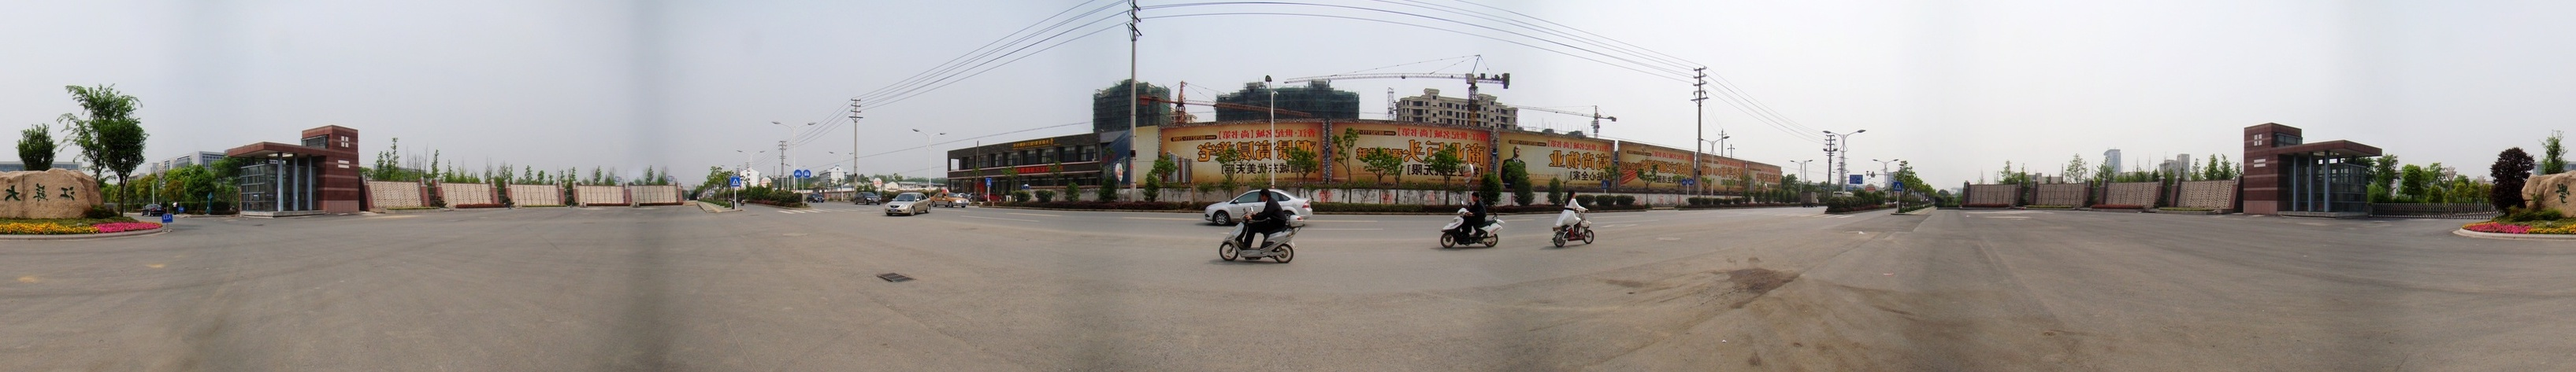
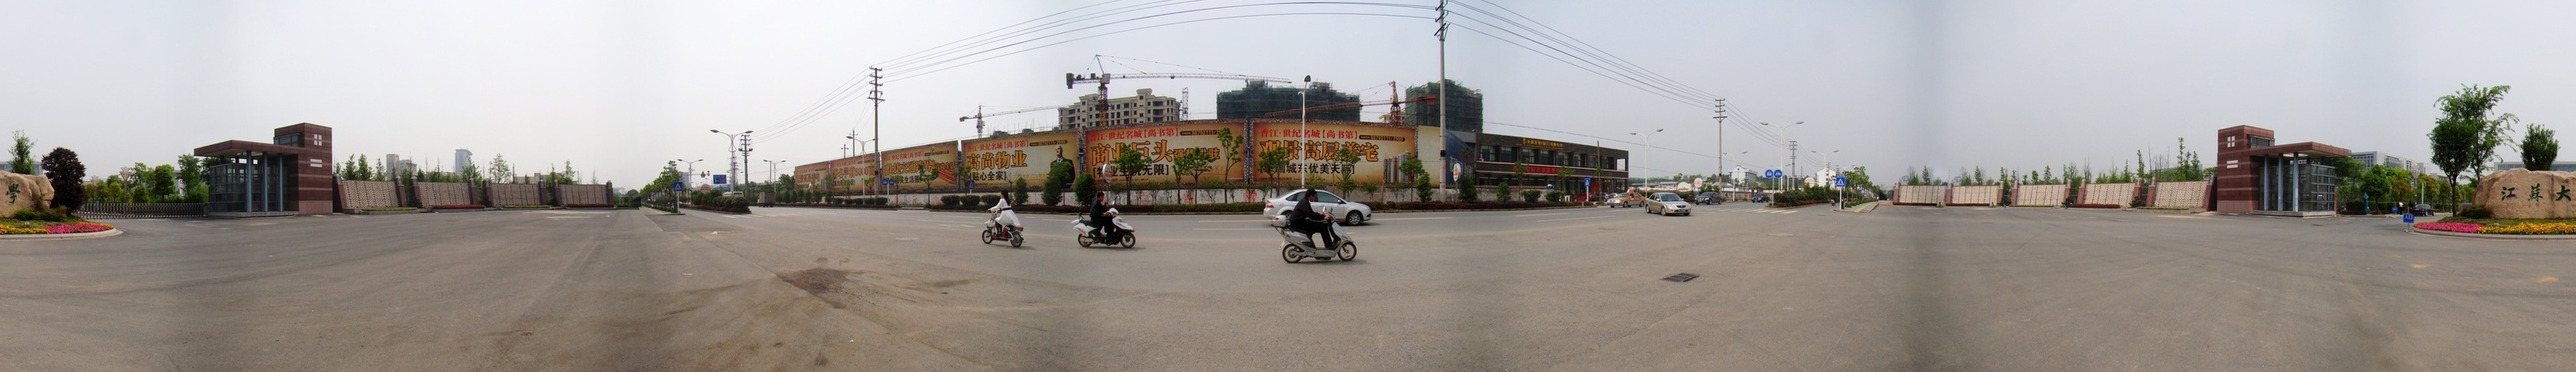
1.fix flipped image bug 2.compress screen shot of README 3.clean unnessary file

diff --git a/js/streetView.js b/js/streetView.js
@@ -111,10 +111,6 @@ var StreetView = function (container) {
     // WEB-GL
     var camera, renderer, scene;
     var vector3, mesh;
-    
-    var canvas = document.createElement("canvas"),
-        context = canvas.getContext("2d"),
-        texture;
 
     var overRenderer;
     var curZoomSpeed = 0, zoomSpeed = 50;
@@ -130,9 +126,14 @@ var StreetView = function (container) {
     var initialized = false;
     var self = this; // instance
     
+    var canvas = document.createElement("canvas"),
+        canvasContext = canvas.getContext("2d"),
+        texture;
+    
     function toggle(image) {
         this.image = image;
         var img = new Image(), ratio = 2;
+        canvasContext.clearRect(0, 0, CANVAS_WIDTH, CANVAS_HEIGHT);
         img.onload = function() {
             // TODO: 处理不同长宽比、尺寸的图片
             var w, h;
@@ -141,8 +142,10 @@ var StreetView = function (container) {
             } else {
                 
             }
-            context.clearRect(0, 0, CANVAS_WIDTH, CANVAS_HEIGHT);
-            context.drawImage(img, 0, (CANVAS_HEIGHT - img.height) / 2, CANVAS_WIDTH, img.height);
+        
+            canvasContext.translate(CANVAS_WIDTH, 0);
+            canvasContext.scale(-1, 1);
+            canvasContext.drawImage(img, 0, (CANVAS_HEIGHT - img.height) / 2, CANVAS_WIDTH, img.height);
             texture.needsUpdate = true;
         }
         img.src = image;

diff --git a/README.md b/README.md
@@ -1,7 +1,7 @@
 UJSCampusView - 江大街景
 ===
 
-![截图](https://raw.githubusercontent.com/ChiChou/UJSCampusView/remote/UJSCampusView.png)
+![截图](https://raw.githubusercontent.com/ChiChou/UJSCampusView/master/UJSCampusView.jpg)
 
 这是一个基于 [THREE.js](http://threejs.org/) 的仿 Google 街景程序，需要浏览器和显卡支持 WEBGL。
 
